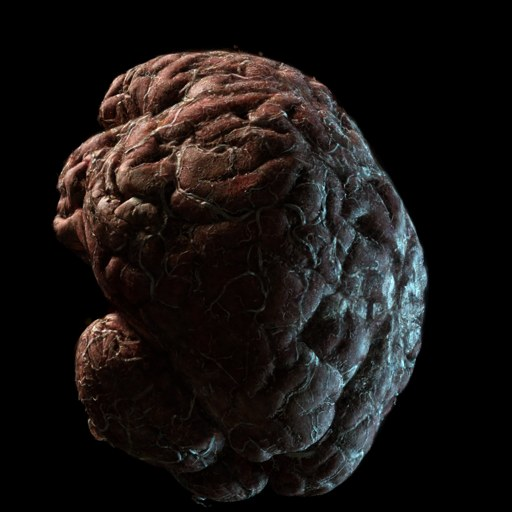
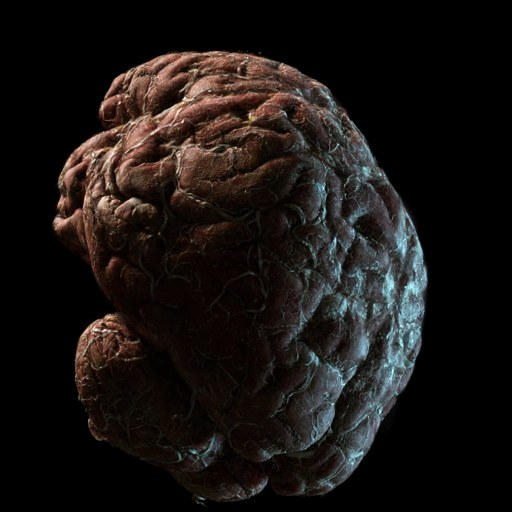
brain_blursplit → yc2frbg (c2f-enabled) checkpoint
Replaced all 4 himalaya_brain/brain_blursplit slots with bakes from
him7_10_..._yc2frbg_3kbs (c2f enabled via the new --disable_c2f false
path). Better model: test PSNR 25.22→25.77, SSIM 0.841→0.857,
LPIPS 0.156→0.142. HD full-Nyquist 379 MB, bake loss -0.06 dB vs
neural (was -0.11); lite capped-64 155 MB, -0.10 dB. Card sizes
379/155, thumbnail refreshed from the new render.

diff --git a/index.html b/index.html
@@ -345,15 +345,15 @@
                     <div class="meta"><span class="size">94 MB</span> · cinematic-anatomy</div>
                 </div>
             </a>
-            <a class="demo" data-folder="himalaya_brain" data-scene="brain_blursplit" data-hd-mb="410"
-               data-true-mb="148"
+            <a class="demo" data-folder="himalaya_brain" data-scene="brain_blursplit" data-hd-mb="379"
+               data-true-mb="155"
                data-astc-hd="brain_blursplit_astc.bitymi"
                data-astc-lite="brain_blursplit_astc_lite.bitymi"
                href="viewer/index.html?bundle=https://huggingface.co/datasets/Nilkel/bitymi-demos/resolve/main/himalaya_brain/brain_blursplit.bitymi">
                 <img class="thumb" src="static/thumbs/brain_blursplit.jpg" alt="Brain micro-CT blursplit scene preview" loading="lazy">
                 <div class="text">
                     <div class="title">Brain (micro-CT, blursplit)</div>
-                    <div class="meta"><span class="size">148 MB</span> · cinematic-anatomy</div>
+                    <div class="meta"><span class="size">155 MB</span> · cinematic-anatomy</div>
                 </div>
             </a>
         </div>
